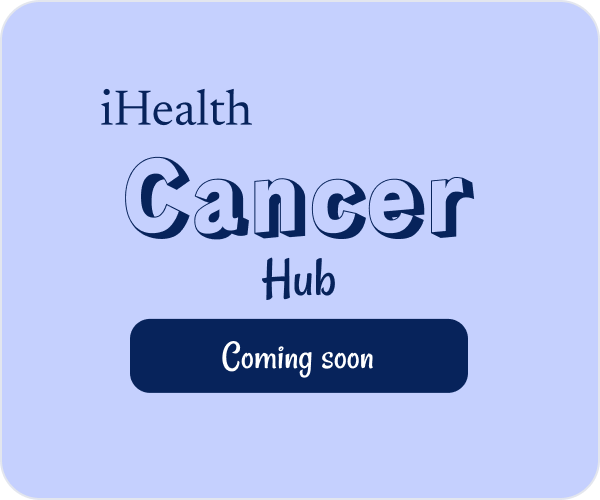
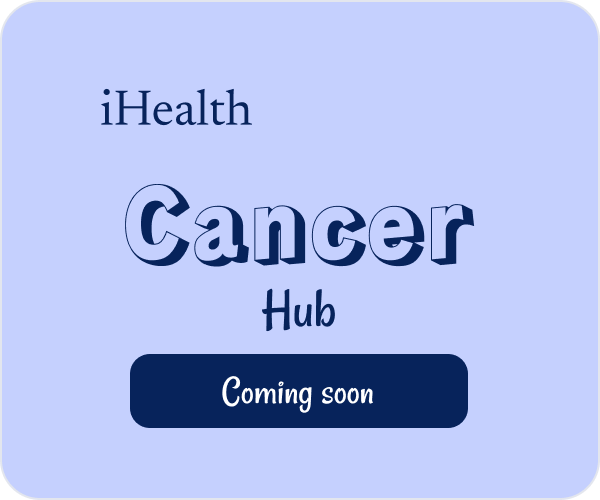
change card images and prolong the animation time

Changed region(s): [[0.21, 0.3, 0.81, 0.87]]

diff --git a/src/Components/Home-Page/Layout/Hero/Hero.css b/src/Components/Home-Page/Layout/Hero/Hero.css
@@ -101,7 +101,7 @@
 
 @keyframes slideText {
   0%,
-  15% {
+  25% {
     transform: translateX(0);
   }
   65% {
@@ -146,7 +146,7 @@
 @media only screen and (max-width: 1024px) {
   @keyframes slideText {
     0%,
-    15% {
+    25% {
       transform: translateX(0);
     }
     65% {
